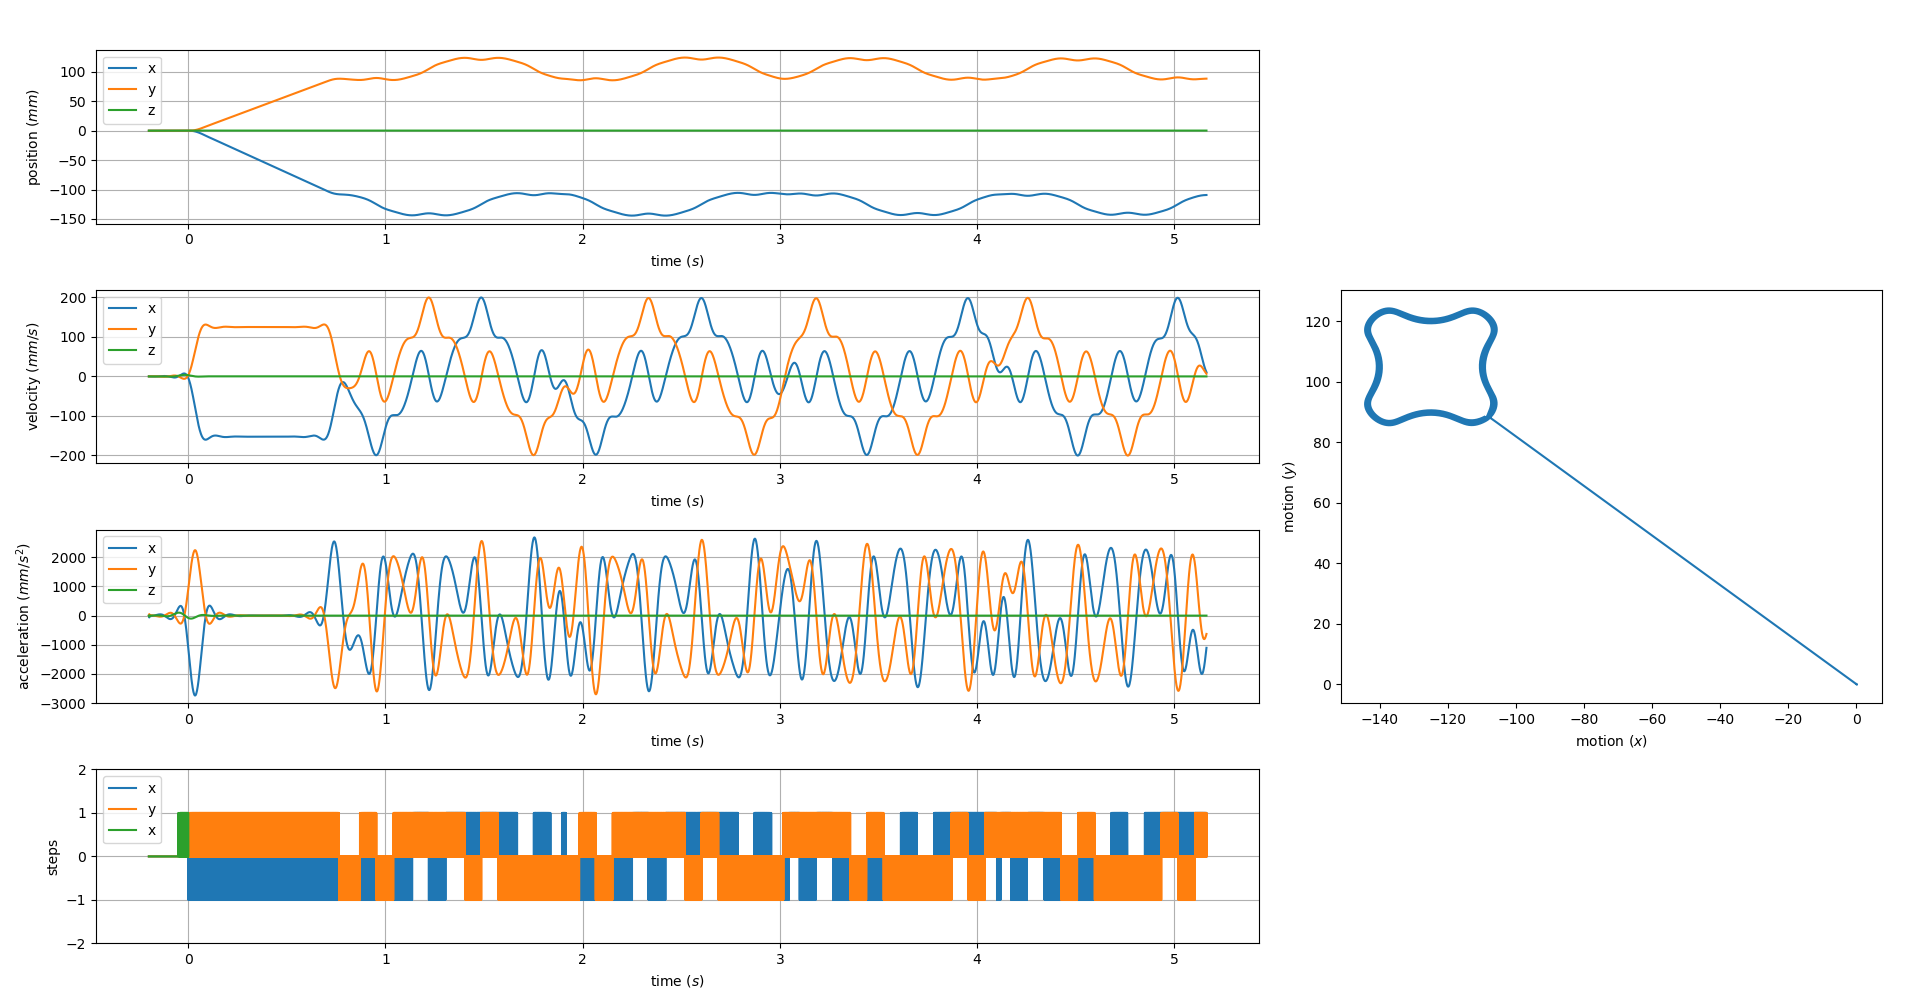
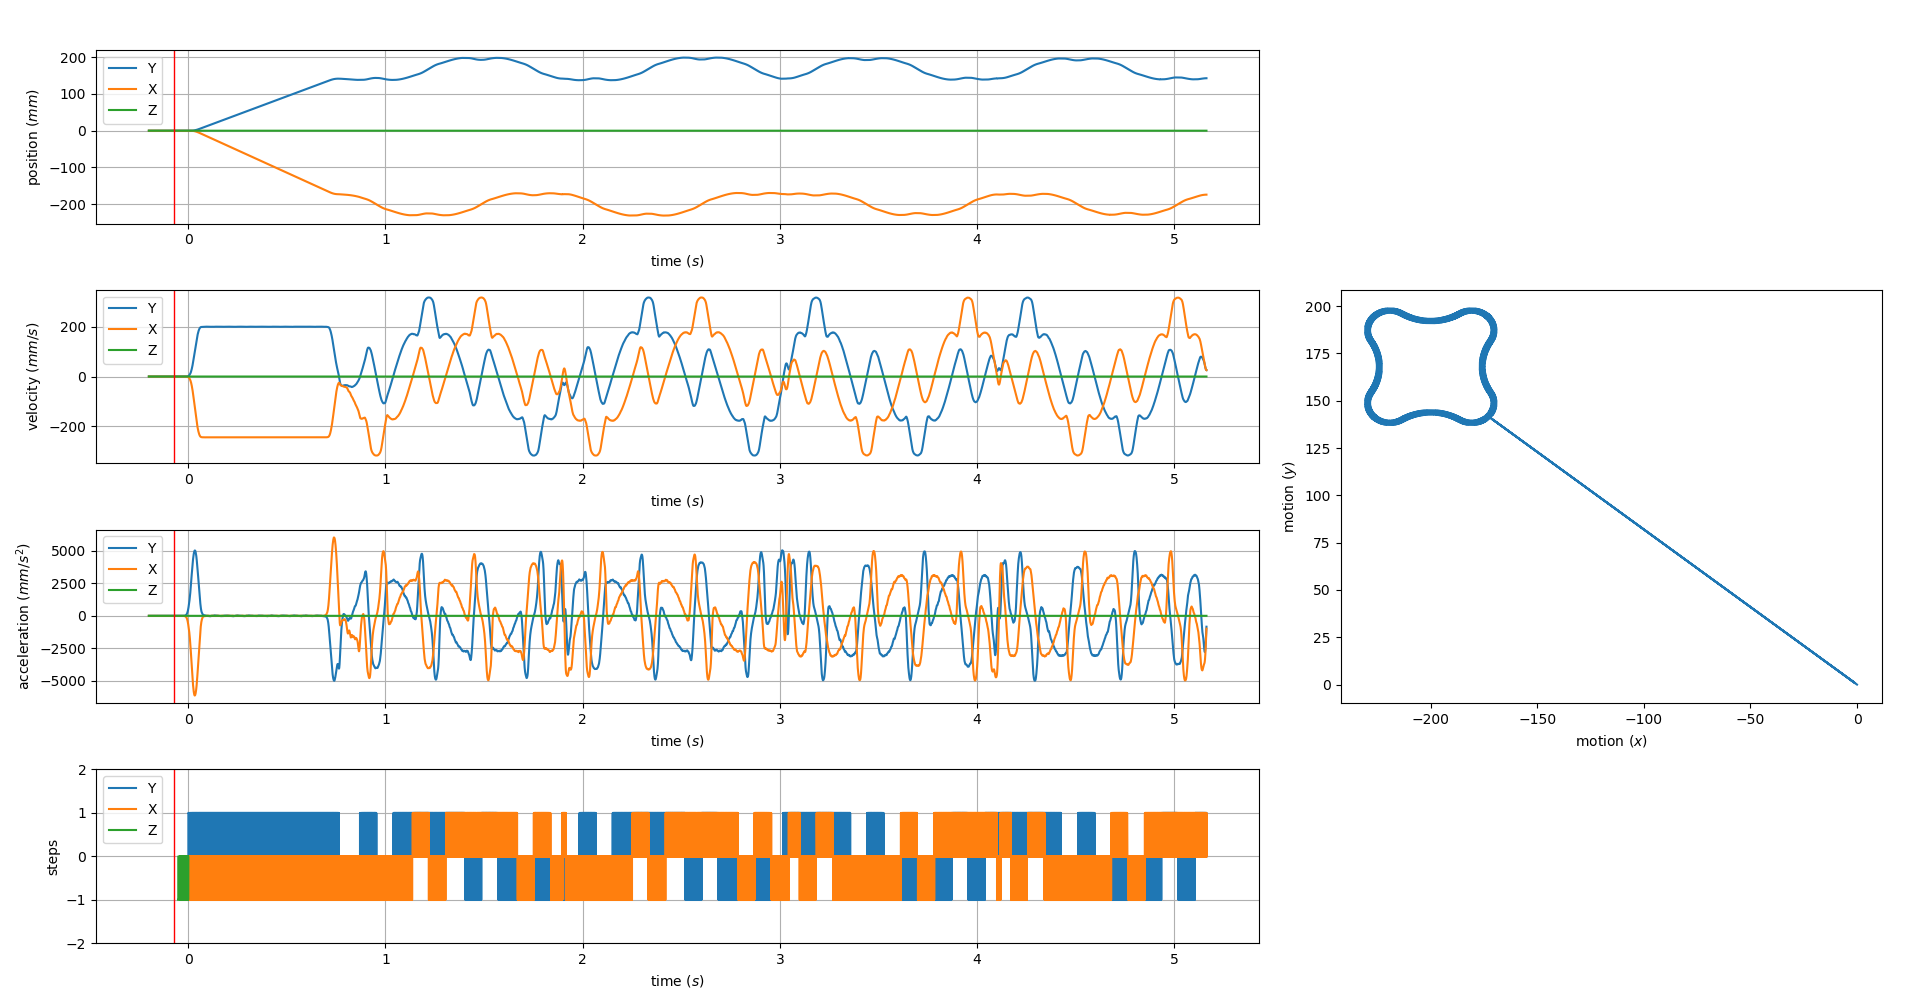
Better filtering

diff --git a/stepper_motion_analysis.py b/stepper_motion_analysis.py
@@ -13,19 +13,19 @@ filename = 'analysis.csv'
 axes = {
   'X' : { 
     'index': 0,
-    'mm_per_step': 1/160.0,
+    'mm_per_step': 1/100.0,    
     'visible': True,
     'result': dict()
     },
   'Y' : { 
     'index': 1,
-    'mm_per_step': 1/160.0,
+    'mm_per_step': 1/100.0,
     'visible': True,
     'result': dict()
     },
   'Z' : { 
     'index': 2,
-    'mm_per_step': 1/2133.33,
+    'mm_per_step': 1/400,
     'visible': True,
     'result': dict()
     }
@@ -35,14 +35,14 @@ visible_axes = {k:v for k,v in axes.iteritems() if v['visible']}
 
 show_motion = True
 
-fs = 5000.0  # (Re-)sampling frequency
-fc = 10.0 # Cut-off frequency of the filter
+fs = 2000.0  # (Re-)sampling frequency
+fc = 40.0 # Cut-off frequency of the filter
 
 w = fc / (fs / 2) # Normalize the frequency
 b, a = signal.butter(1, w, 'low')
 
 def interpolate(x, y, t):
-  return interp1d(x, y, kind='zero', bounds_error=False, fill_value='extrapolate')(t)
+  return interp1d(x, y, kind='previous', bounds_error=False, fill_value='extrapolate')(t)
 
 def filter(i):
   return signal.filtfilt(b, a, i)
@@ -64,8 +64,9 @@ def calc_axis(axis_data, time, axis_name):
   pos = interpolate(t, p, time)
 
   pos_filtered = filter(pos)
-  vel = velocity(t, pos_filtered)
-  acc = acceleration(t, pos_filtered)
+
+  vel = filter(velocity(t, pos))
+  acc = filter(velocity(t, vel))
 
   vel_max = maxabs(vel)
   acc_max = maxabs(acc)
